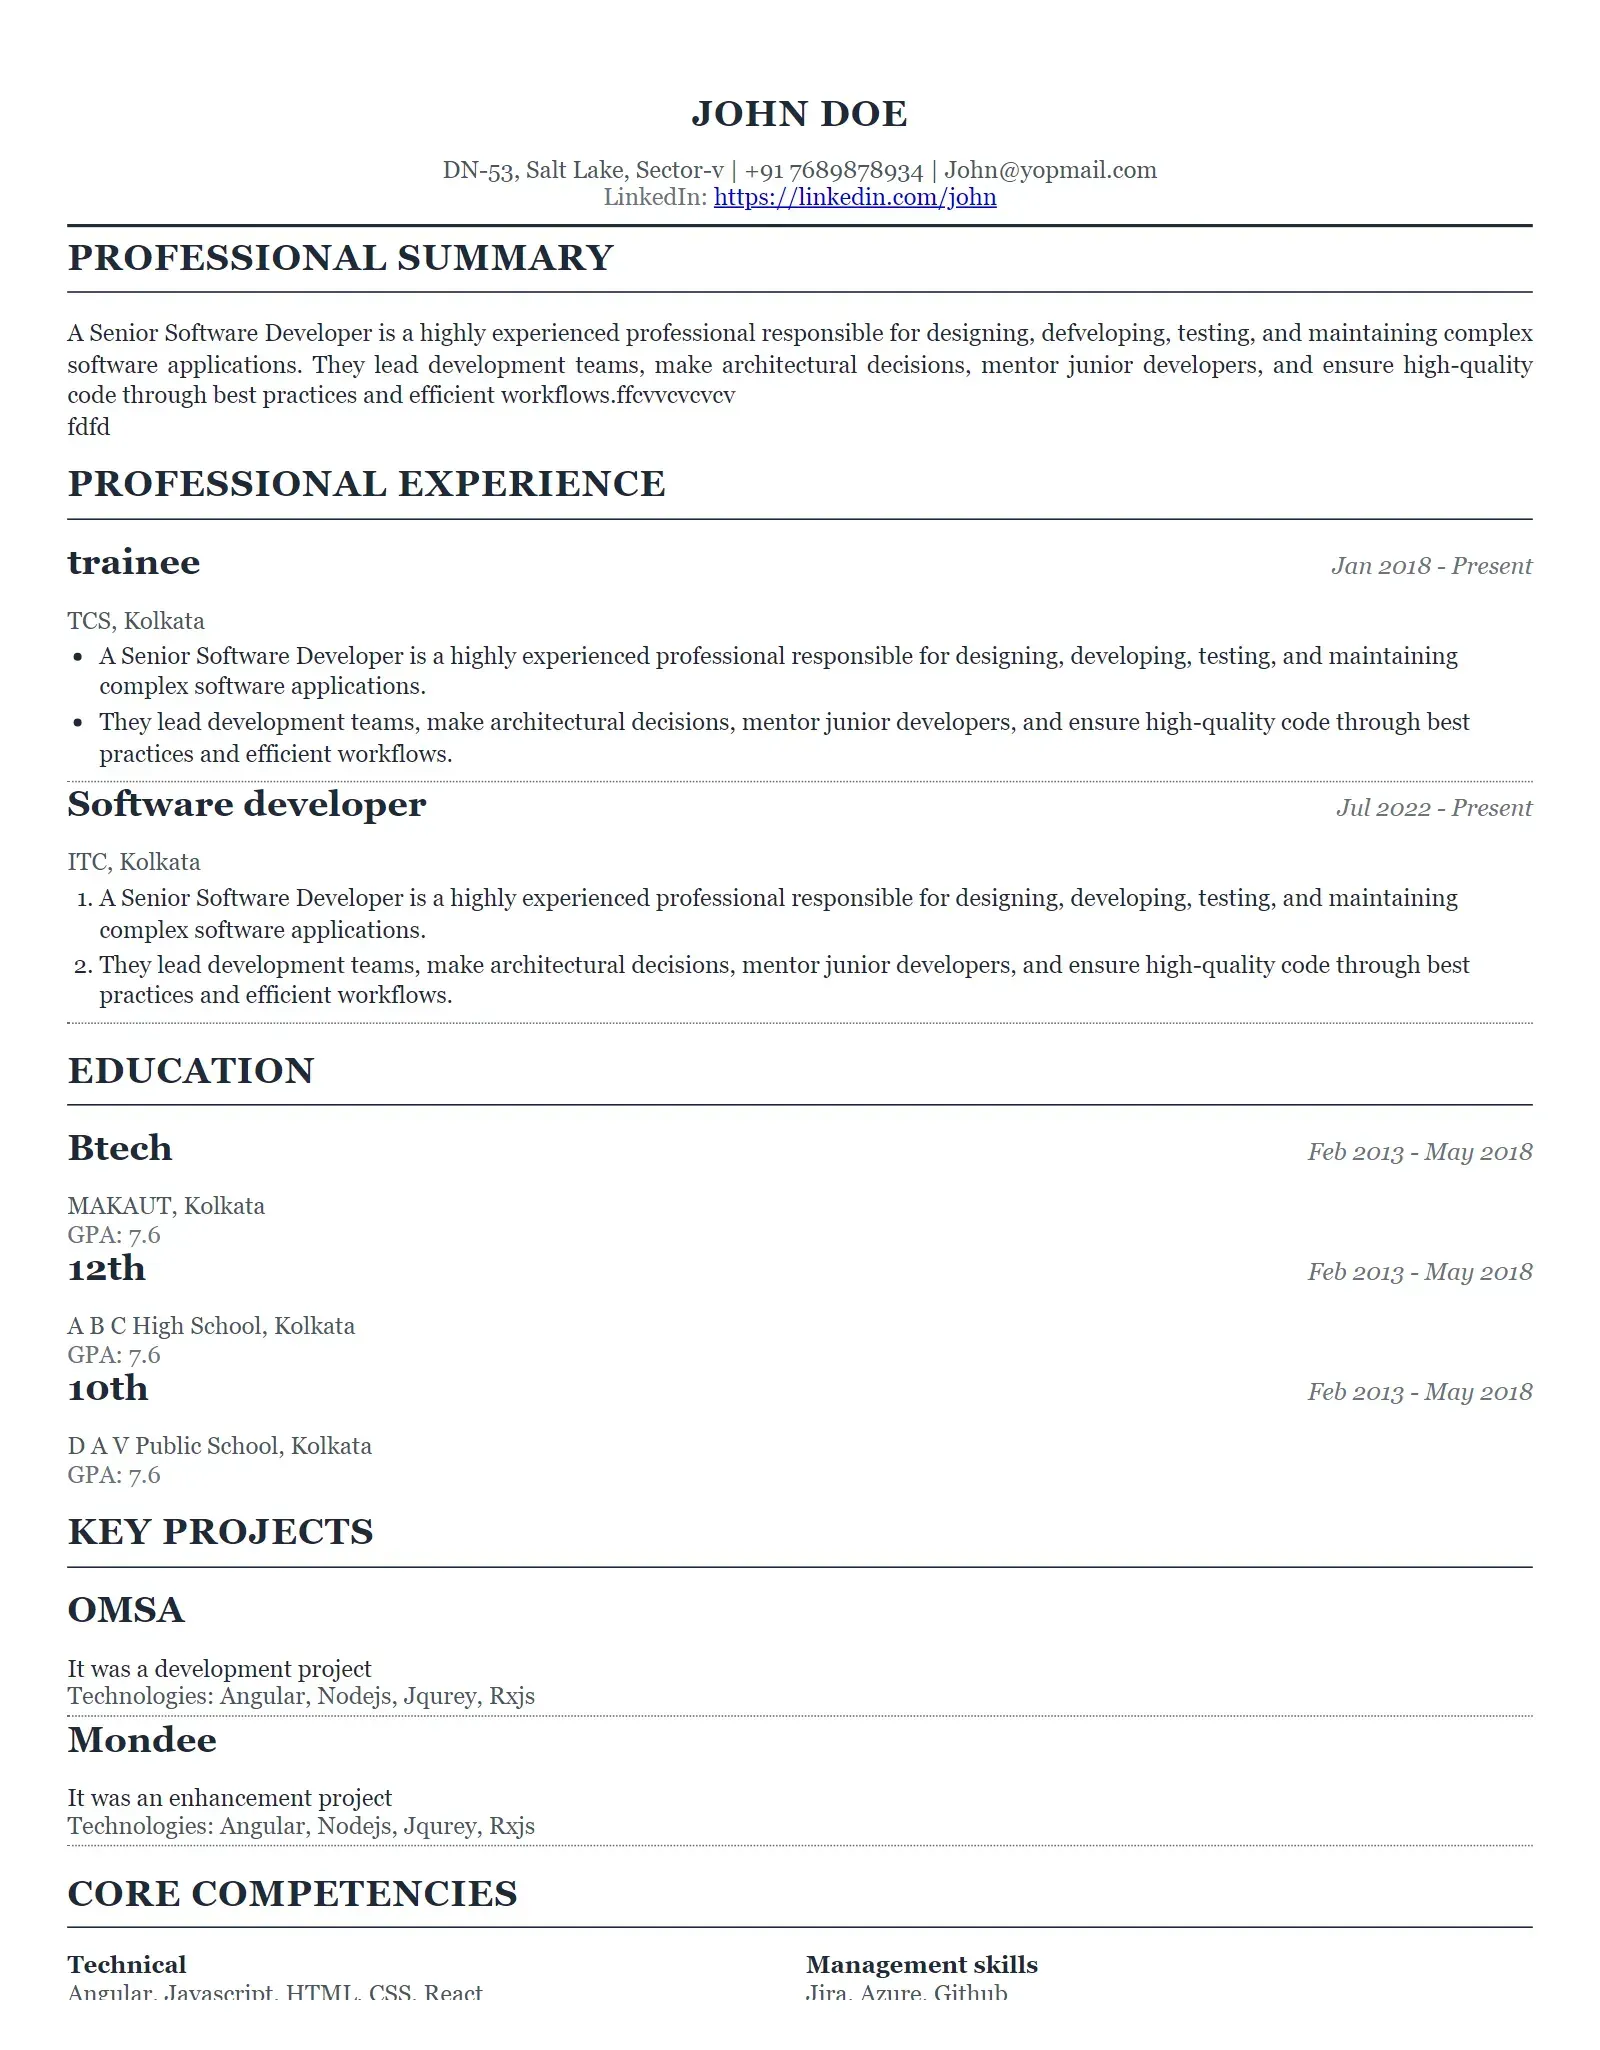
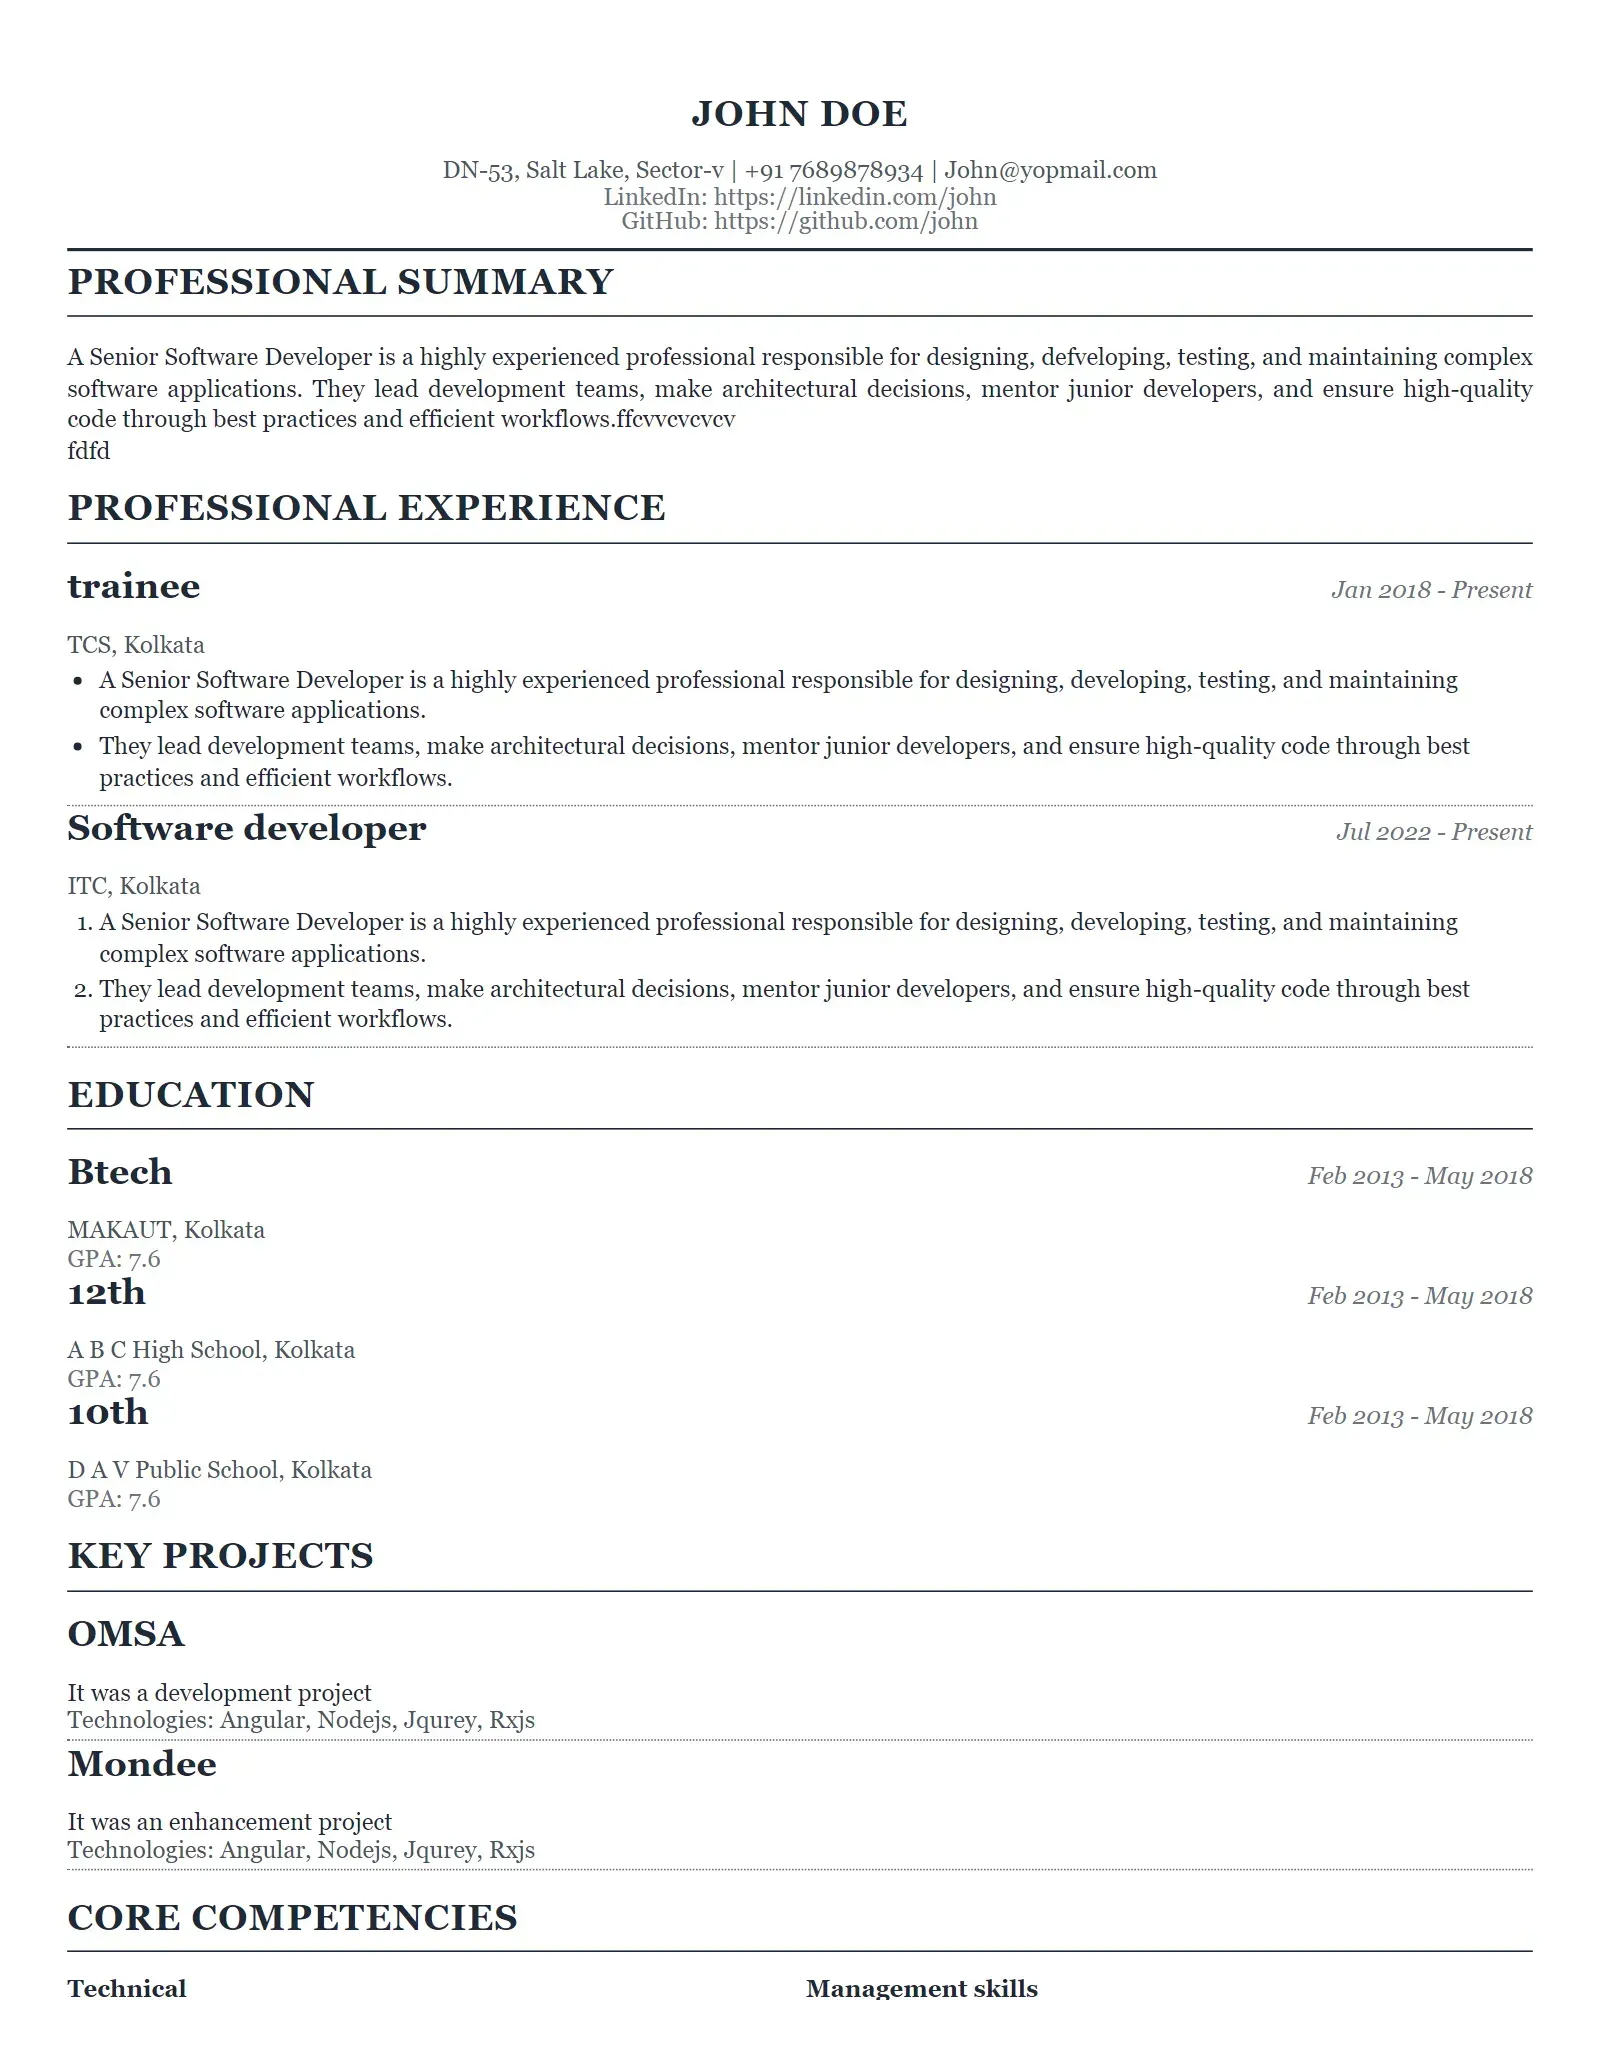
template changes

diff --git a/backend/assets/templates.js b/backend/assets/templates.js
@@ -942,7 +942,8 @@ module.exports = [
       .achievement-issuer { font-size: 12px; color: #6b7280; }
       .custom-field { margin-bottom: 2px; }
       .custom-field h3 { font-size: 16px; font-weight: 600; color: #1f2937; margin-bottom: 2px; }
-      .custom-content { font-size: 12px; color: #4b5563; line-height: 1; }`
+      .custom-content { font-size: 12px; color: #4b5563; line-height: 1; }
+      .contact-item a { color: rgba(255,255,255,0.9); text-decoration: none; }`
     },
     creator: null,
     tags: ['creative', 'designer', 'portfolio', 'sidebar', 'colorful', 'gradient']
@@ -1251,6 +1252,8 @@ module.exports = [
             {{#if personalInfo.email}}{{#if personalInfo.phone}} | {{/if}}{{personalInfo.email}}{{/if}}
           </div>
           {{#if personalInfo.linkedin}}<div class="linkedin">LinkedIn: <a href="{{personalInfo.linkedin}}" target="_blank">{{personalInfo.linkedin}}</a></div>{{/if}}
+          {{#if personalInfo.github}}<div class="github">GitHub: <a href="{{personalInfo.github}}" target="_blank" itemprop="url">{{personalInfo.github}}</a></div>{{/if}}
+          {{#if personalInfo.website}}<div class="website">Website: <a href="{{personalInfo.website}}" target="_blank" itemprop="url">{{personalInfo.website}}</a></div>{{/if}}
         </header>
         {{#if summary}}<section class="summary-section"><h2>PROFESSIONAL SUMMARY</h2><div>{{{summary}}}</div></section>{{/if}}
         {{#if workExperience}}<section class="experience-section"><h2>PROFESSIONAL EXPERIENCE</h2>{{#each workExperience}}<div class="job-entry"><div class="job-title-line"><h3>{{jobTitle}}</h3><span class="job-dates">{{formatDate startDate}} - {{#if isCurrentJob}}Present{{else}}{{#if endDate}}{{formatDate endDate}}{{/if}}{{/if}}</span></div><div class="company-line">{{company}}{{#if location}}, {{location}}{{/if}}</div>{{#if description}}<div class="job-description">{{{description}}}</div>{{/if}}</div>{{/each}}</section>{{/if}}
@@ -1263,7 +1266,9 @@ module.exports = [
       .classic-header { text-align: center; margin-bottom: 6px; padding-bottom: 8px; border-bottom: 2px solid #1f2937; }
       .name { font-size: 16px; font-weight: bold; color: #1f2937; margin-bottom: 6px; text-transform: uppercase; letter-spacing: 0.5px; }
       .contact-details { font-size: 12px; color: #4b5563; margin-bottom: 2px; }
-      .linkedin { font-size: 12px; color: #6b7280; }
+      .linkedin { font-size: 12px; color: #6b7280;} .linkedin a { font-size: 12px; color: #6b7280; text-decoration: none; }
+      .github { font-size: 12px; color: #6b7280;} .github a { font-size: 12px; color: #6b7280;text-decoration: none; }
+      .website { font-size: 12px; color: #6b7280;} .website a { font-size: 12px; color: #6b7280; text-decoration: none; }
       section { margin-bottom: 6px; }
       section h2 { font-size: 16px; font-weight: bold; color: #1f2937; text-transform: uppercase; margin-bottom: 6px; border-bottom: 1px solid #1f2937; padding-bottom: 8px; letter-spacing: 0.5px; }
       .summary-section p { font-size: 12px; line-height: 1; color: #1f2937; text-align: justify; }
@@ -3732,7 +3737,7 @@ module.exports = [
         </section>
         {{/if}}
       </article>`,
-      "css": ".resume.classic-serif { font-family: 'Times New Roman', serif; max-width: 8.5in; margin: 0 auto; padding: 0.5in 0.35in; background: white; color: #111827; font-size: 12px; line-height: 1.4; } .resume.classic-serif .header { text-align: left !important; margin-bottom: 8px; padding-bottom: 4px; border-bottom: 1px solid #d1d5db; } .resume.classic-serif .name { font-size: 18px; line-height: 1.2; letter-spacing: 0.5px; margin: 0 0 3px; font-variant: small-caps; text-align: left !important; font-weight: bold; } .resume.classic-serif .contact { font-size: 11px; color: #4b5563; line-height: 1.3; } .resume.classic-serif .contact a { color: #4b5563; text-decoration: none; } .resume.classic-serif section { margin-top: 8px; } .resume.classic-serif h2 { text-transform: uppercase; font-size: 14px; margin: 6px 0 3px; letter-spacing: 0.5px; color: #1f2937; border-left: 3px solid #4b5563; padding-left: 4px; font-weight: bold; } .resume.classic-serif h3 { font-size: 12px; font-weight: bold; margin: 3px 0 2px; color: #374151; } .resume.classic-serif .job-header, .resume.classic-serif .edu-header, .resume.classic-serif .project-header, .resume.classic-serif .achievement-header, .resume.classic-serif .cert-header { display: flex; justify-content: space-between; align-items: baseline; margin-bottom: 2px; } .resume.classic-serif .dates { font-size: 10px; color: #6b7280; } .resume.classic-serif .gpa { font-size: 10px; color: #374151; margin: 2px 0; } .resume.classic-serif .company, .resume.classic-serif .institution, .resume.classic-serif .issuer { font-size: 10px; color: #4b5563; margin: 2px 0; } .resume.classic-serif .job-description, .resume.classic-serif .project-description, .resume.classic-serif .edu-description { margin: 3px 0; color: #374151; line-height: 1.4; } .resume.classic-serif .achievements { margin: 3px 0;} .resume.classic-serif .achievements li { margin-bottom: 2px; color: #374151; } .resume.classic-serif .skill-category { margin-bottom: 4px; } .resume.classic-serif .skill-items { display: flex; flex-wrap: wrap; gap: 6px; margin-top: 2px; } .resume.classic-serif .skill-item { background: #f3f4f6; padding: 2px 4px; border-radius: 2px; font-size: 9px; color: #374151; } .resume.classic-serif .technologies { margin: 3px 0; } .resume.classic-serif .tech-tag { background: #e5e7eb; padding: 1px 3px; border-radius: 2px; font-size: 8px; margin-right: 3px; } .resume.classic-serif .project-links { margin: 2px 0; } .resume.classic-serif .project-links a { color: #374151; text-decoration: none; font-size: 9px; } .resume.classic-serif .cert-expiry, .resume.classic-serif .cert-id { font-size: 9px; color: #6b7280; margin: 1px 0; } .resume.classic-serif .cert-link a { color: #374151; text-decoration: none; font-size: 9px; } .resume.classic-serif .issuer-info { font-size: 9px; color: #6b7280; margin: 2px 0; } .resume.classic-serif .language-item { margin: 2px 0; font-size: 10px; } .resume.classic-serif .custom-field { margin-bottom: 4px; } .resume.classic-serif .custom-content { margin: 2px 0; } .resume.classic-serif p { margin: 2px 0; } .resume.classic-serif .job, .resume.classic-serif .edu, .resume.classic-serif .project, .resume.classic-serif .cert, .resume.classic-serif .achievement { margin-bottom: 6px; ul, ol { margin: 0.25rem 0; padding-left: 1rem; }   ul li, ol li { margin-bottom: 0.125rem; color: #4b5563; line-height: 1.3; font-size: 10px; } ul { list-style-type: disc; } ol { list-style-type: decimal; } } ul { list-style-type: disc; } ol { list-style-type: decimal; }"
+      "css": ".resume.classic-serif { font-family: 'Times New Roman', serif; max-width: 8.5in; margin: 0 auto; padding: 0.5in 0.35in; background: white; color: #111827; font-size: 12px; line-height: 1.4; } .header { text-align: left !important; margin-bottom: 8px; padding-bottom: 4px; border-bottom: 1px solid #d1d5db; } .name { font-size: 18px; line-height: 1.2; letter-spacing: 0.5px; margin: 0 0 3px; font-variant: small-caps; text-align: left !important; font-weight: bold; } .contact-item { font-size: 11px; color: #4b5563; line-height: 1.3; } .contact-item a { color: #4b5563; text-decoration: none; } section { margin-top: 8px; } h2 { text-transform: uppercase; font-size: 14px; margin: 6px 0 3px; letter-spacing: 0.5px; color: #1f2937; border-left: 3px solid #4b5563; padding-left: 4px; font-weight: bold; } h3 { font-size: 12px; font-weight: bold; margin: 3px 0 2px; color: #374151; } .job-header, .edu-header, .project-header, .achievement-header, .cert-header { display: flex; justify-content: space-between; align-items: baseline; margin-bottom: 2px; } .dates { font-size: 10px; color: #6b7280; } .gpa { font-size: 10px; color: #374151; margin: 2px 0; } .company, .institution, .issuer { font-size: 10px; color: #4b5563; margin: 2px 0; } .job-description, .project-description, .edu-description { margin: 3px 0; color: #374151; line-height: 1.4; } .achievements { margin: 3px 0; } .achievements li { margin-bottom: 2px; color: #374151; } .skill-category { margin-bottom: 4px; } .skill-items { display: flex; flex-wrap: wrap; gap: 6px; margin-top: 2px; } .skill-item { background: #f3f4f6; padding: 2px 4px; border-radius: 2px; font-size: 9px; color: #374151; } .technologies { margin: 3px 0; } .tech-tag { background: #e5e7eb; padding: 1px 3px; border-radius: 2px; font-size: 8px; margin-right: 3px; } .project-links { margin: 2px 0; } .project-links a { color: #374151; text-decoration: none; font-size: 9px; } .project-links a:hover { text-decoration: underline; } .cert-link a { color: #374151; text-decoration: none; font-size: 9px; } .cert-link a:hover { text-decoration: underline; } .cert-expiry, .cert-id { font-size: 9px; color: #6b7280; margin: 1px 0; } .issuer-info { font-size: 9px; color: #6b7280; margin: 2px 0; } .language-item { margin: 2px 0; font-size: 10px; } .custom-field { margin-bottom: 4px; } .custom-content { margin: 2px 0; } p { margin: 2px 0; } .job, .edu, .project, .cert, .achievement { margin-bottom: 6px; } ul, ol { margin: 0.25rem 0; padding-left: 1rem; } ul li, ol li { margin-bottom: 0.125rem; color: #4b5563; line-height: 1.3; font-size: 10px; } ul { list-style-type: disc; } ol { list-style-type: decimal; }"
     },
     creator: null,
     "tags": ["classic", "serif", "traditional", "academic", "single-column", "gray"]

diff --git a/resume-builder/src/components/TemplateSelection.js b/resume-builder/src/components/TemplateSelection.js
@@ -97,10 +97,10 @@ function TemplateSelection() {
     { value: 'minimalist', label: 'Minimalist' },
     { value: 'professional', label: 'Professional' },
     { value: 'academic', label: 'Academic' },
-    { value: 'executive', label: 'Executive' },
-    { value: 'corporate', label: 'Corporate' },
-    { value: 'tech', label: 'Tech' },
-    { value: 'design', label: 'Design' }
+    // { value: 'executive', label: 'Executive' },
+    // { value: 'corporate', label: 'Corporate' },
+    // { value: 'tech', label: 'Tech' },
+    // { value: 'design', label: 'Design' }
   ];
 
   const getTemplateColor = (category) => {

diff --git a/backend/utils/puppeteerThumbnailGenerator.js b/backend/utils/puppeteerThumbnailGenerator.js
@@ -489,7 +489,7 @@ class PuppeteerThumbnailGenerator {
       };
 
       const screenshotBuffer = await page.screenshot(screenshotOptions);
-      const whiteBorderHeight = 50; // in pixels
+      const whiteBorderHeight = 60; // in pixels
 
       // Add white border using sharp
       const finalImage = await sharp(screenshotBuffer).extend({
